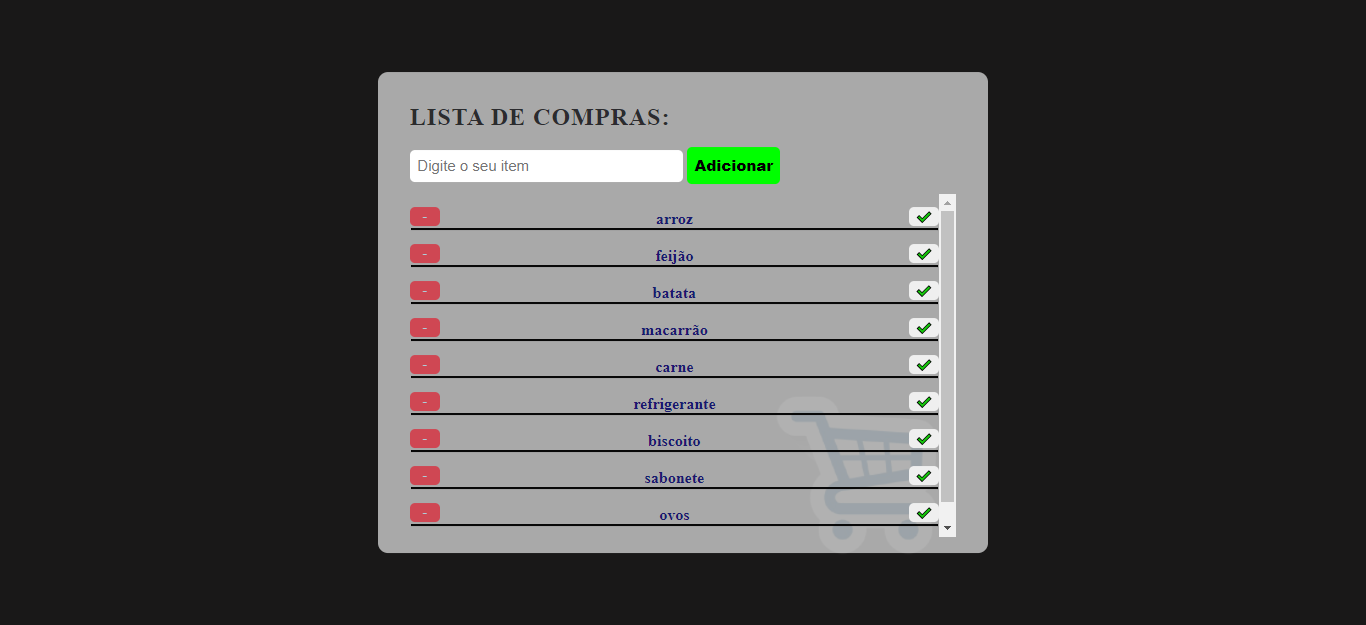
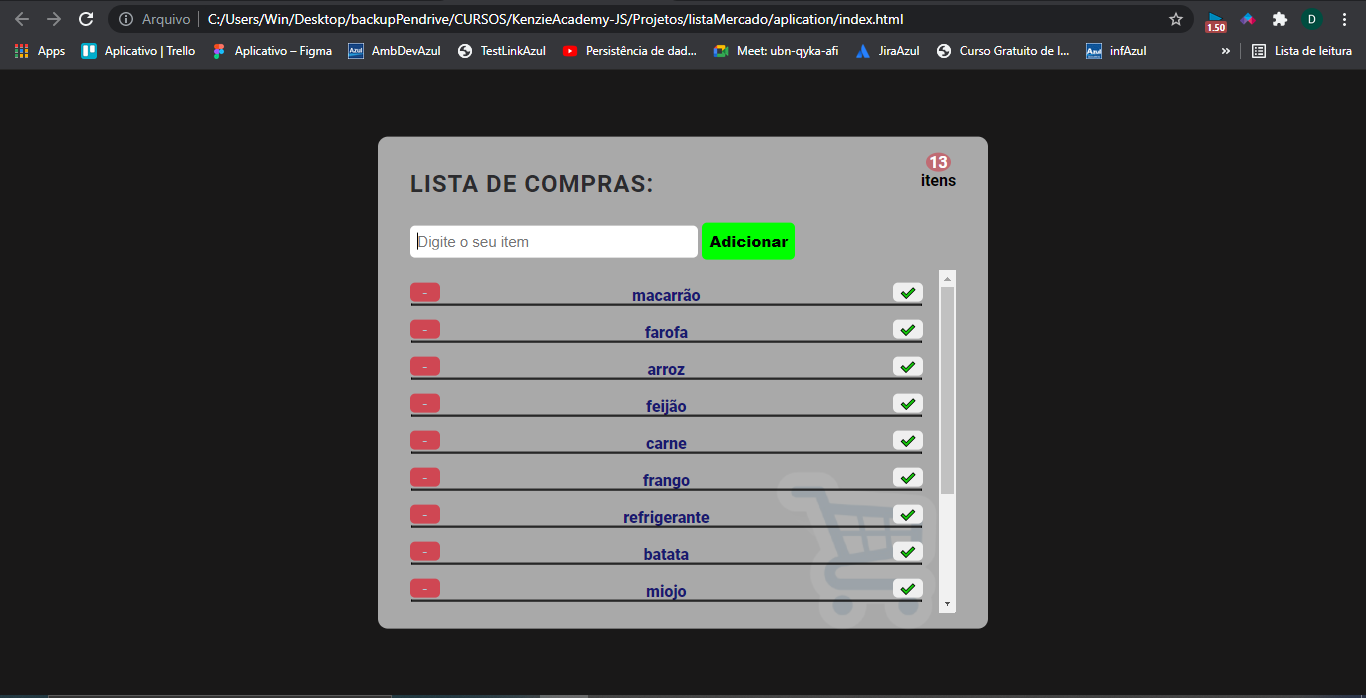
Criando contador, e adicionando novas imagens

Changed region(s): [[0.0, 0.0, 1.0, 0.912], [0.0, 0.9728, 1.0, 1.0]]

diff --git a/aplication/script.js b/aplication/script.js
@@ -4,6 +4,9 @@ let ul= document.getElementById("lista");
 let items = document.getElementsByTagName("li");
 let itemButtons = document.getElementsByClassName("remove");
 let riscaItem = document.getElementsByClassName("riscaItem");
+let contadorContainer = document.getElementById("contador");
+
+contador = 0;
 
 function gerarListaNova(){
   let li = document.createElement("li");
@@ -39,6 +42,8 @@ function gerarListaNova(){
  
 function deleteItem(){
  this.parentElement.parentElement.remove();
+ contador -= 1;
+ contadorContainer.textContent = contador;
 }
 
 function buttonEvents(){
@@ -60,6 +65,8 @@ input.addEventListener('keyup', function(e){
       resultado.textContent=""
       input.style.border = "none";
       input.style.boxShadow = "none";
+      contador += 1;
+      contadorContainer.textContent = contador;
     }else if((key == 13) && (input.value=== "")){
       resultado.textContent="Campo obrigatório";
       input.style.border = "1px solid #D82E3D";
@@ -72,6 +79,8 @@ btnAdicionar.addEventListener('click', function(e){
     resultado.textContent=""
     input.style.border = "none";
     input.style.boxShadow = "none";
+    contador += 1;
+    contadorContainer.textContent = contador;
   }else{
     resultado.textContent="Campo obrigatório";
     input.style.border = "1px solid #D82E3D";
@@ -80,7 +89,8 @@ btnAdicionar.addEventListener('click', function(e){
 
 function checkItem(){
     this.parentElement.querySelector(".spanText").style.textDecoration = "line-through #D82E3D 2px";
-   this.parentElement.querySelector(".spanText").style.textTransform= "uppercase";
+    this.parentElement.querySelector(".spanText").style.textTransform= "uppercase";
+    this.parentElement.querySelector(".spanText").style.fontFamily= "Squada One";
 }
 
 buttonEvents();

diff --git a/aplication/index.html b/aplication/index.html
@@ -1,14 +1,24 @@
+<!DOCTYPE html>
 <html lang="pt-BR">
 <head>
 <meta charset="UTF-8">
+<link rel="preconnect" href="https://fonts.gstatic.com">
+<link href="https://fonts.googleapis.com/css2?family=Roboto:ital,wght@0,700;0,900;1,400&family=Squada+One&display=swap" rel="stylesheet">
 <title>Lista de compras - Kenzie Academy - JS</title>
 <link rel="stylesheet" type="text/css" href="styles.css" />
+
 </head>
   <body>
     <div id="app">
       <div id="container">
           <img src= "https://i.ibb.co/PGwVc63/x-removebg-preview.png"/>
+        <div id="topContainer">
         <h1>Lista de compras:</h1>
+          <div id="containerContador">
+           <span id="contador">0</span>
+            <p id="itensTop">itens</p>
+          </div>
+        </div>
         <input id="item-input" type="text" required placeholder="Digite o seu item" />
         <button id="btnAdicionar">Adicionar</button>
         <div id="resultado"></div>

diff --git a/aplication/styles.css b/aplication/styles.css
@@ -2,6 +2,7 @@ body{
   margin:0;
   padding:0;
   background-color: #191818;
+  font-family:"Roboto",sans-serif;
 }
 
 img{
@@ -16,6 +17,30 @@ img{
 
 #app{
  display:relative;
+}
+
+#topContainer{
+  display:flex;
+  flex-direction:row;
+  justify-content:space-between;
+}
+
+#containerContador{
+  display:flex;
+  flex-direction:column;
+  align-items:center;
+}
+
+#contador{
+  width:70%;
+  text-align:center;
+  border-radius:50%;
+  color:white;
+  background-color: #D82E3D80;
+}
+
+#itensTop{
+  transform: translateY(-90%);
 }
 
 #container{
@@ -51,6 +76,7 @@ ul{
 #containerLista{
   max-height:55vh;
   overflow: auto;
+  padding-right: 1em;
 }
 
 li{
@@ -79,6 +105,7 @@ li{
 
 hr{
   width: 99%;
+  height:0.5;
   transform: translateY(-9px);
   border-color: #000;
 }
